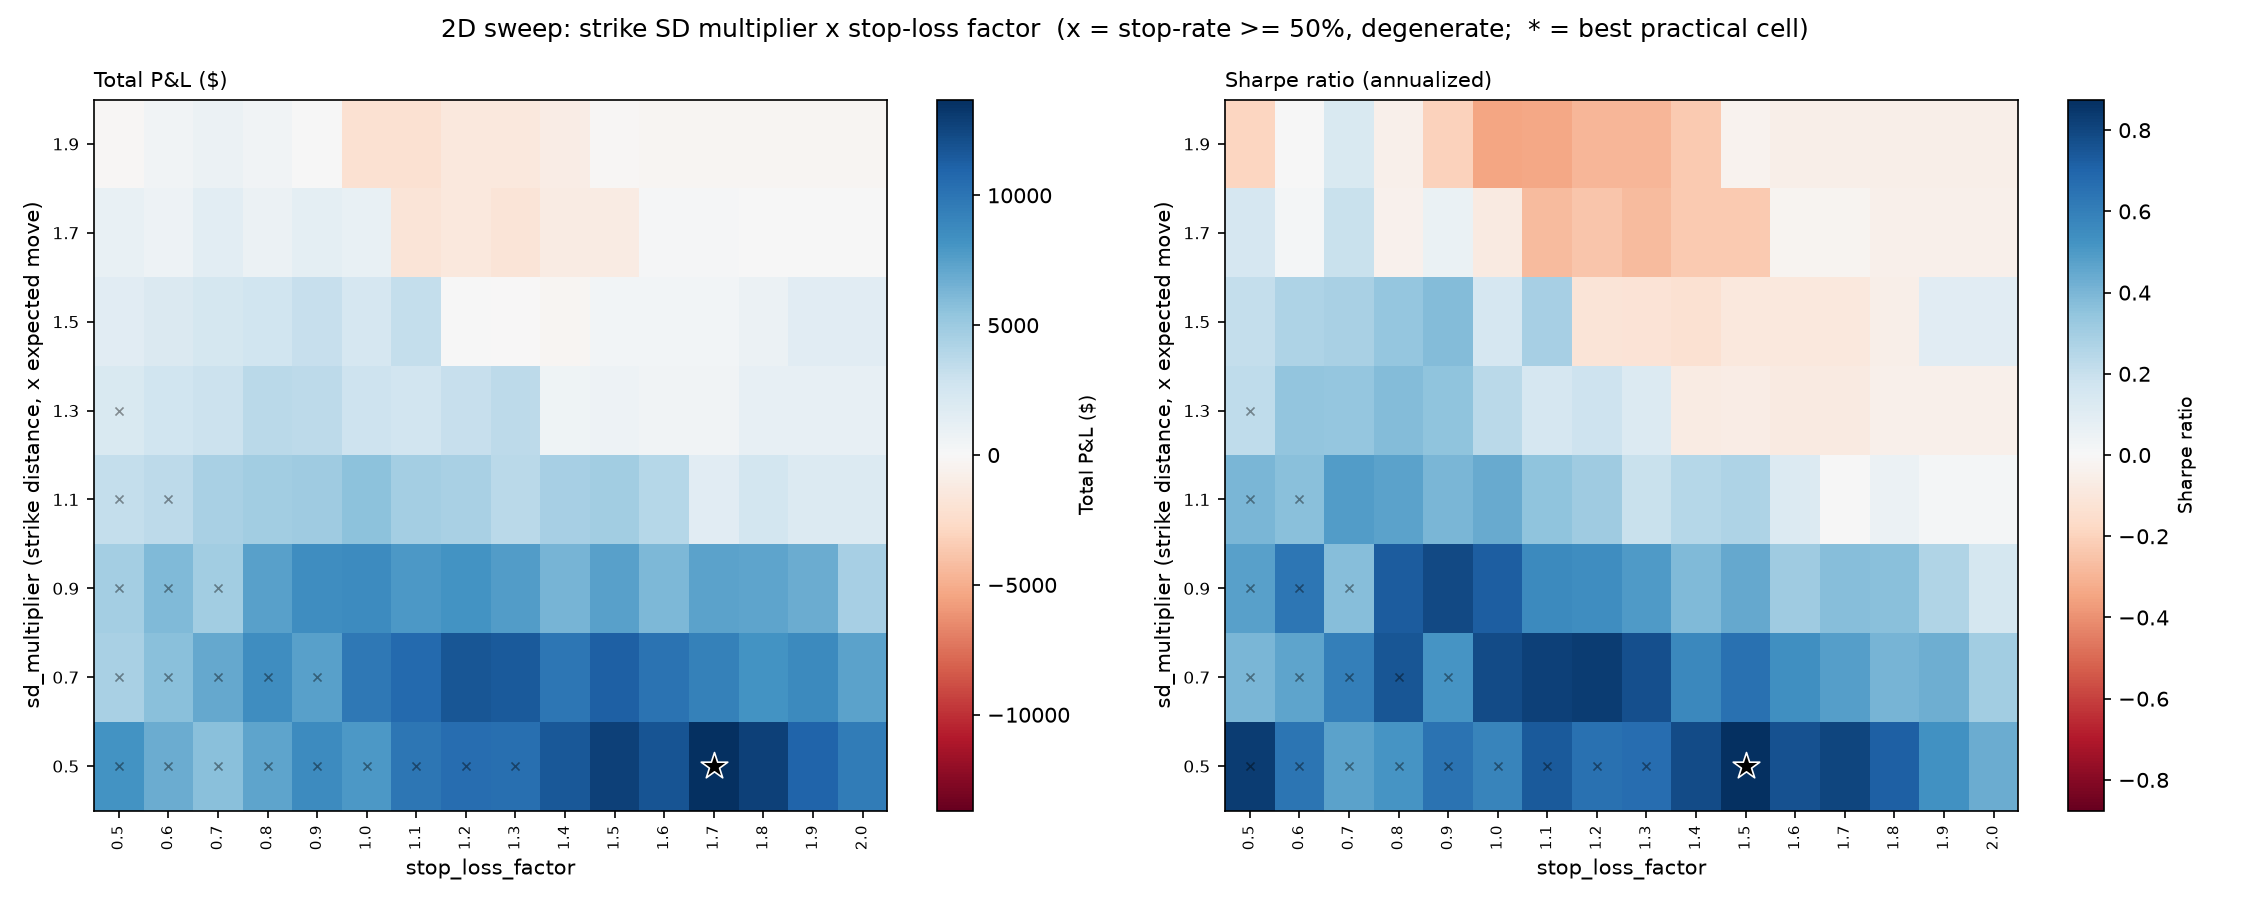
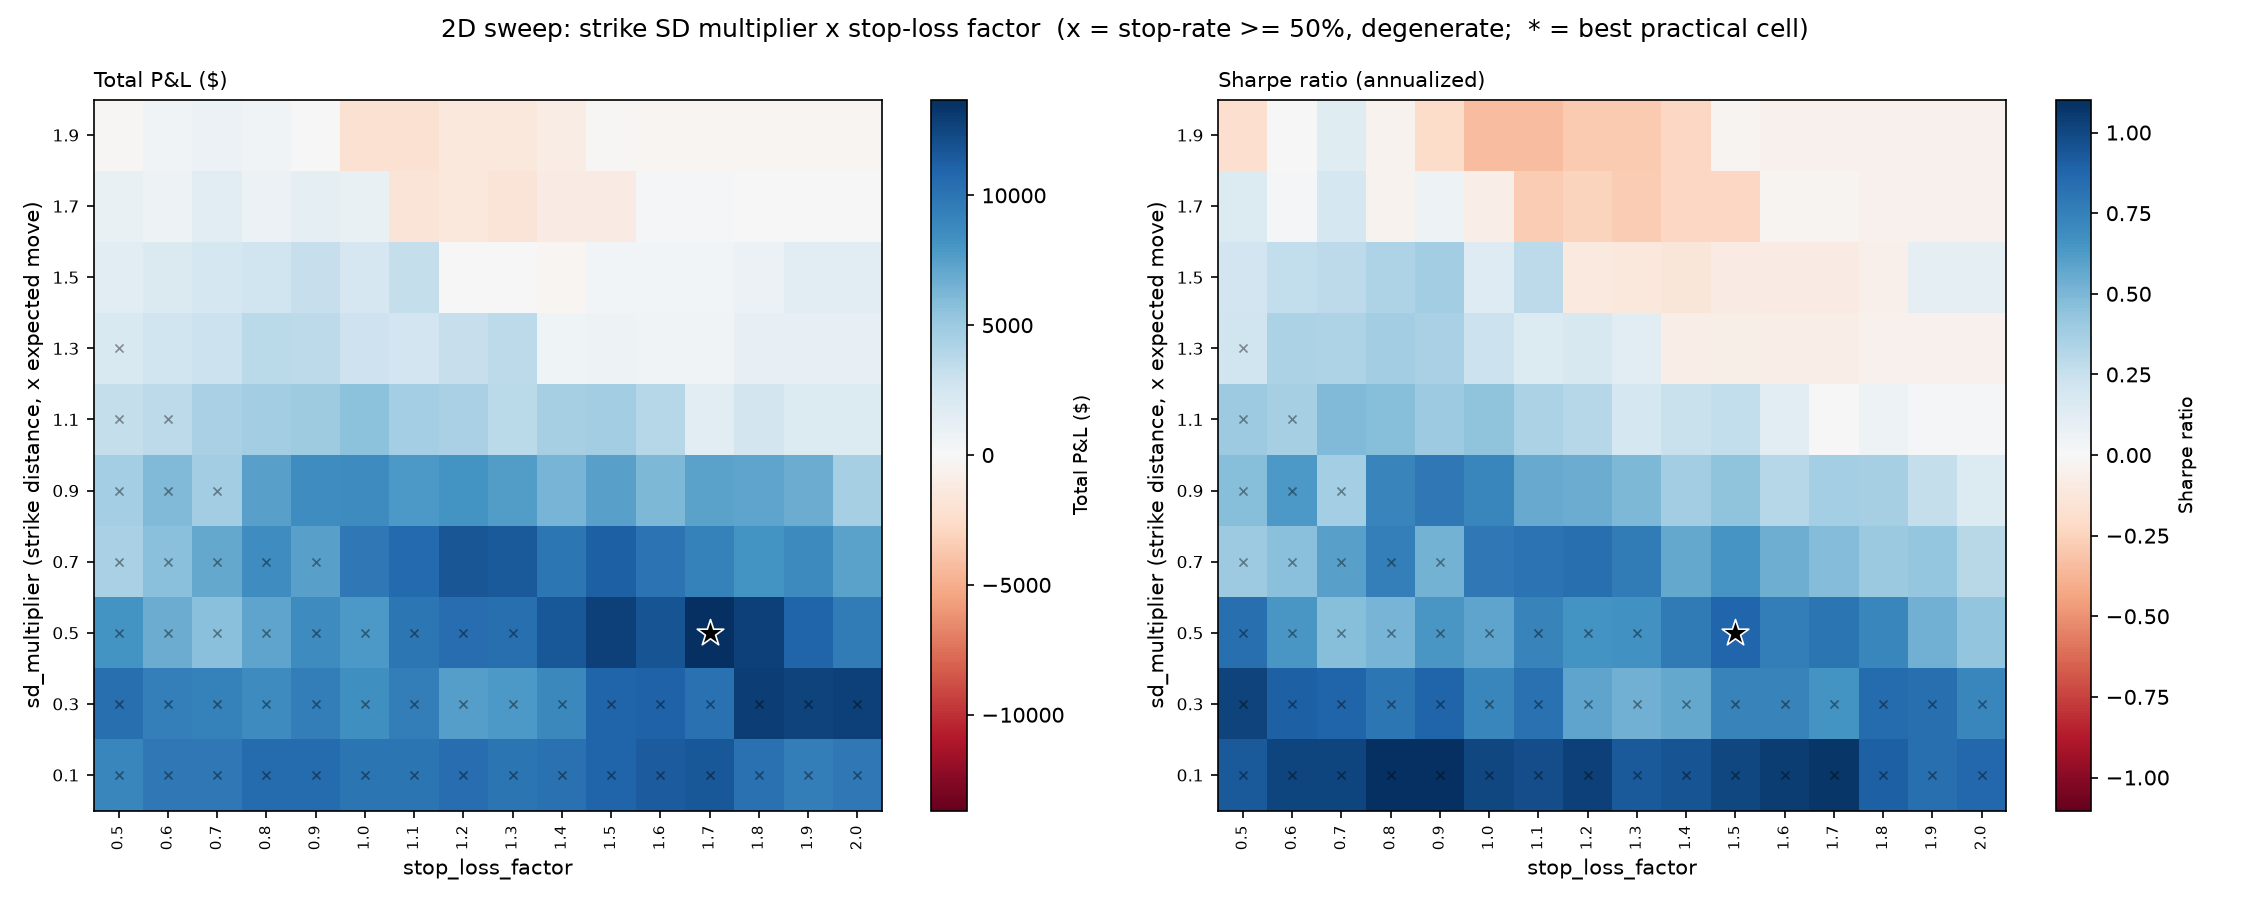
chore: extend sd_multiplier sweep down to 0.1
Checks whether tighter strikes keep improving past 0.5 or plateau.
They collapse into the same degenerate near-immediate-exit trap
found earlier on the stop-factor axis, so 0.5 stays the best
practical point.

diff --git a/Trading/src/sweep_2d.py b/Trading/src/sweep_2d.py
@@ -14,7 +14,7 @@ from sweep_stop_loss import START, END
 
 OUT_DIR = Path(__file__).parent.parent / "runs" / "sweep_2d"
 
-SD_MULTIPLIERS = np.round(np.arange(0.5, 2.0001, 0.2), 2)
+SD_MULTIPLIERS = np.round(np.arange(0.1, 2.0001, 0.2), 2)
 STOP_FACTORS = np.round(np.arange(0.5, 2.0001, 0.1), 2)
 DEGENERATE_STOP_RATE = 0.5
 

diff --git a/Trading/runs/sweep_2d/analysis.md b/Trading/runs/sweep_2d/analysis.md
@@ -5,16 +5,19 @@ Two parameters now vary together, both on the combined 2020-2025 period:
 - **`sd_multiplier`**: how far the sold strikes sit from spot, as a
   multiple of the 1-SD expected move. Every prior run in this project used
   `sd_multiplier=1.0` implicitly (strikes at `spot ± 1×EM`) — that number
-  was never actually tested against alternatives until now. Swept 0.5 to
-  2.0, step 0.2 (8 values: 0.5, 0.7, 0.9, 1.1, 1.3, 1.5, 1.7, 1.9 — note
-  1.0 itself isn't a grid point at this step size).
+  was never actually tested against alternatives until now. Swept 0.1 to
+  2.0, step 0.2 (10 values: 0.1, 0.3, 0.5, 0.7, 0.9, 1.1, 1.3, 1.5, 1.7,
+  1.9 — note 1.0 itself isn't a grid point at this step size). Originally
+  swept from 0.5; extended down to 0.1 to check whether tighter strikes
+  keep improving results or plateau (see "Does it keep improving below
+  0.5?" below).
 - **`stop_loss_factor`**: unchanged meaning, but now measured as a
   fraction of the *actual* strike distance (`strike_distance =
   expected_move × sd_multiplier`) rather than the raw 1-SD move, so it
   stays comparable across different `sd_multiplier` values. Swept 0.5 to
   2.0, step 0.1 (16 values).
 
-128 combinations, ~26s to run. Full grid: `grid_results.csv`. Heatmap:
+160 combinations, ~32s to run. Full grid: `grid_results.csv`. Heatmap:
 `grid_heatmap.png` (P&L and Sharpe side by side; `x` marks degenerate
 cells, stop-rate ≥ 50%; `★` marks the best practical cell in each panel).
 
@@ -42,7 +45,28 @@ The best `sd=0.5` cell roughly **doubles** the P&L of anything found in
 every prior 1D stop-loss-only sweep (`runs/sweep_stop_loss/`'s best was
 $7,080 at sd=1.0, stop=0.85).
 
-## Why this makes sense, and why it's not free
+## Does it keep improving below 0.5?
+
+No — it plateaus and then collapses into the same degenerate trap the
+1D sweep found at `stop_loss_factor=0.10`, just triggered from the
+strike-distance axis instead. Raw numbers at `sd=0.1` and `sd=0.3` look
+like the best in the whole grid (Sharpe up to 1.10, P&L up to $12,842) —
+but every single cell in those two rows is degenerate (stop-rate 90-99%).
+At `sd=0.1`, adjacent stop factors even produce **byte-identical P&L**
+(`stop=0.6` and `stop=0.7` both give exactly $9,761.11) — the tell that
+almost every trade is being stopped out on day one regardless of the
+exact factor, because strikes that close to spot make even a "loose"
+stop factor correspond to a tiny absolute price band that the underlying
+blows through immediately most weeks. This isn't a strangle-with-a-stop
+anymore, it's "collect a sliver of premium and bail almost immediately,
+every week" — same failure mode as before, different axis.
+
+`sd_multiplier=0.5` is a genuine edge of the meaningful region, not an
+arbitrary stopping point: it's the tightest strike distance in this sweep
+where a normal spread of stop-rates (24-93%) still exists across the
+stop-factor range, rather than every cell being pinned near 100%.
+
+## Why sd=0.5 makes sense, and why it's not free
 
 Selling strikes closer to spot (`sd_multiplier=0.5`) collects far more
 option premium up front — the strikes are much closer to the money, so
